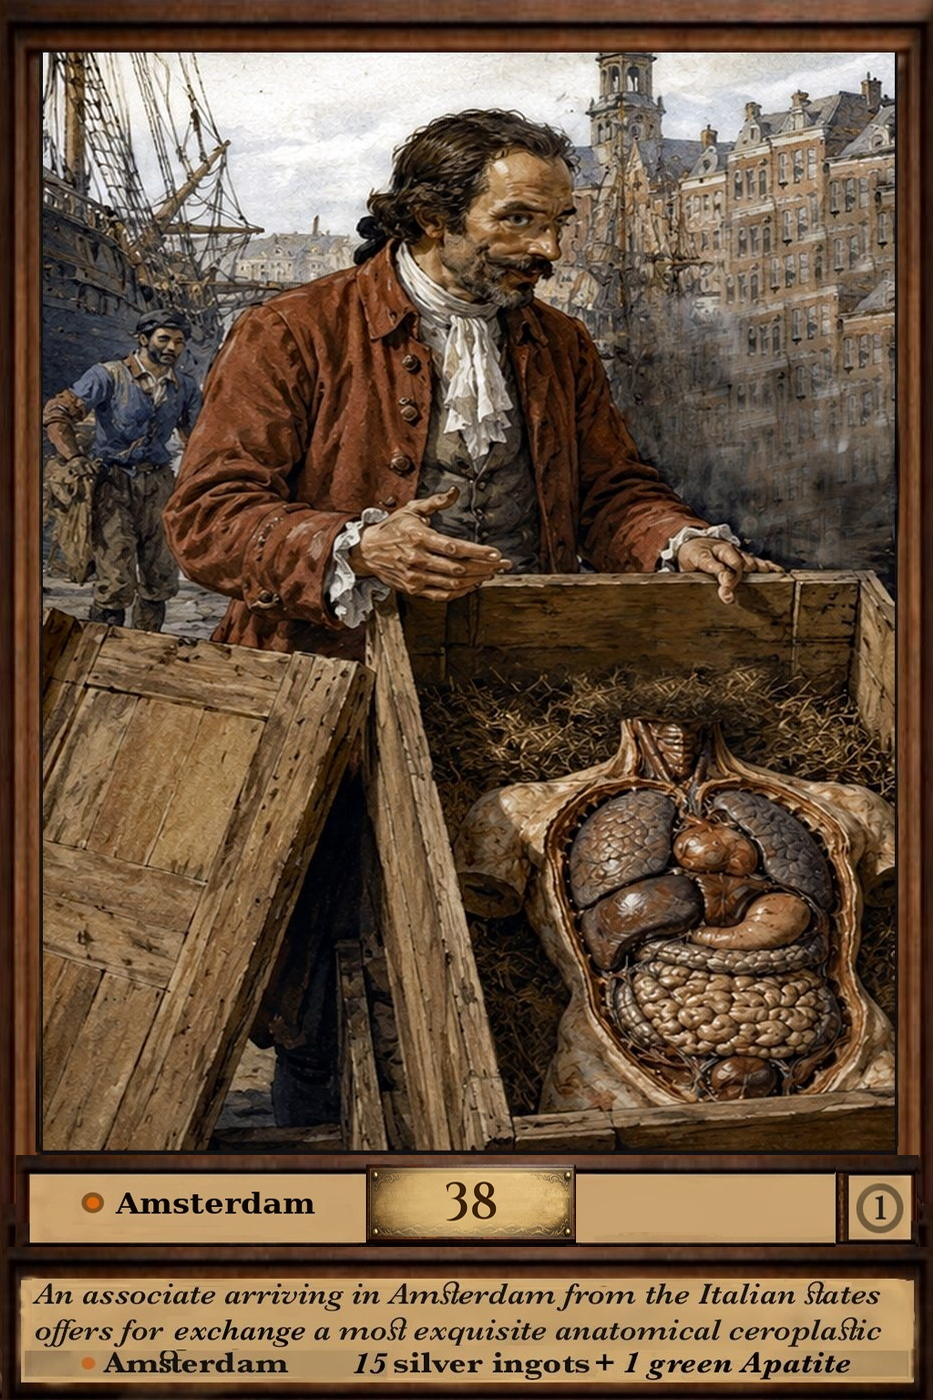
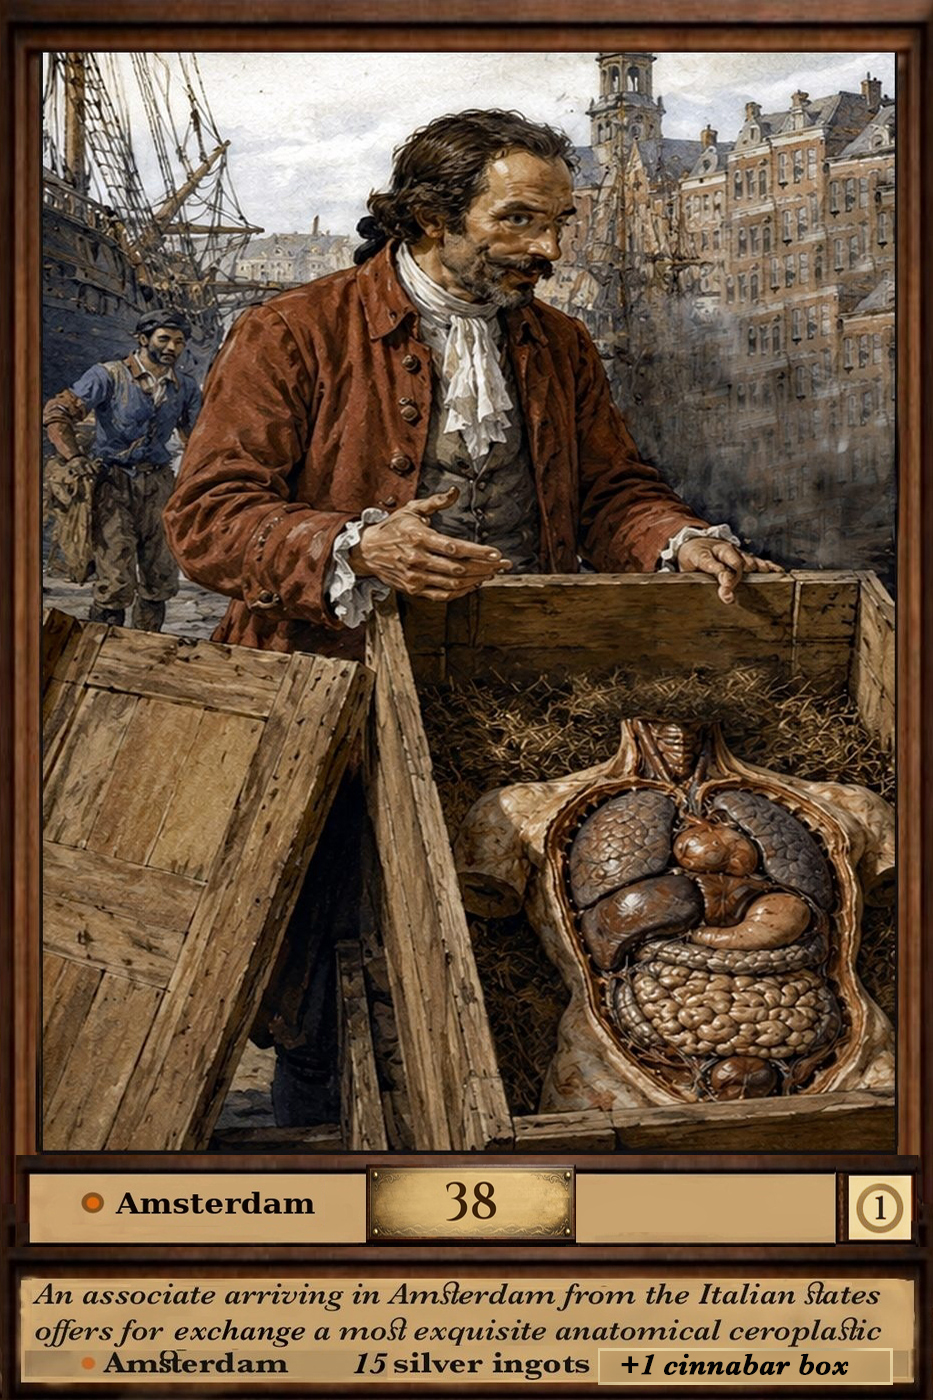
ooooh

Changed region(s): [[0.6217, 0.9521, 0.9636, 1.0], [0.9014, 0.8293, 0.9946, 0.8907]]

diff --git a/index.html b/index.html
@@ -347,23 +347,42 @@ input, textarea { -webkit-user-select: text; user-select: text; }  /* keep any t
 .rep-wrap {
   position: relative;
   width: 100%;
-  height: 14px;
+  height: 22px;
   display: flex;
   align-items: center;
 }
-.rep-gradient {
+.rep-segments {
   width: 100%;
-  height: 7px;
+  height: 16px;
   border-radius: 3px;
-  background: linear-gradient(90deg, #8b1a1a 0%, #c8923a 50%, #2a7a2a 100%);
-  border: 1px solid #4a2e0e;
+  display: flex;
+  overflow: hidden;
+  border: 1.5px solid #2a1a08;
+  box-shadow: inset 0 1px 3px rgba(0,0,0,0.5);
+}
+.rep-seg {
+  flex: 1;
+  display: flex;
+  align-items: center;
+  justify-content: center;
+  border-right: 1px solid rgba(0,0,0,0.35);
+}
+.rep-seg:last-child { border-right: none; }
+.rep-seg.red   { background: linear-gradient(180deg, #a8342a, #7a2018); }
+.rep-seg.amber { background: linear-gradient(180deg, #c88a2a, #9a6415); }
+.rep-seg.green { background: linear-gradient(180deg, #3a9a3a, #226b22); }
+.rep-seg-num {
+  font-family: 'Cinzel', serif;
+  font-size: 0.5rem;
+  font-weight: 700;
+  color: rgba(255,255,255,0.6);
 }
 .rep-marker {
   position: absolute;
   top: 50%;
   transform: translate(-50%, -50%);
-  width: 12px;
-  height: 14px;
+  width: 16px;
+  height: 20px;
   transition: left 0.5s cubic-bezier(0.4,0,0.2,1);
   pointer-events: none;
 }
@@ -2660,7 +2679,18 @@ body.solo-mode #ast-bay-p1 { display: none !important; }  /* P1's bay is the RIG
   <div class="rep-area">
     <div class="rep-label">REPUTATION</div>
     <div class="rep-wrap">
-      <div class="rep-gradient"></div>
+      <div class="rep-segments">
+        <div class="rep-seg red"><span class="rep-seg-num">1</span></div>
+        <div class="rep-seg red"><span class="rep-seg-num">2</span></div>
+        <div class="rep-seg red"><span class="rep-seg-num">3</span></div>
+        <div class="rep-seg amber"><span class="rep-seg-num">4</span></div>
+        <div class="rep-seg amber"><span class="rep-seg-num">5</span></div>
+        <div class="rep-seg amber"><span class="rep-seg-num">6</span></div>
+        <div class="rep-seg green"><span class="rep-seg-num">7</span></div>
+        <div class="rep-seg green"><span class="rep-seg-num">8</span></div>
+        <div class="rep-seg green"><span class="rep-seg-num">9</span></div>
+        <div class="rep-seg green"><span class="rep-seg-num">10</span></div>
+      </div>
       <div class="rep-marker" id="rep-p1" style="left:50%">
         <img src="images/tracker.png" alt="▾">
       </div>
@@ -2698,7 +2728,18 @@ body.solo-mode #ast-bay-p1 { display: none !important; }  /* P1's bay is the RIG
   <div class="rep-area">
     <div class="rep-label">REPUTATION</div>
     <div class="rep-wrap">
-      <div class="rep-gradient"></div>
+      <div class="rep-segments">
+        <div class="rep-seg red"><span class="rep-seg-num">1</span></div>
+        <div class="rep-seg red"><span class="rep-seg-num">2</span></div>
+        <div class="rep-seg red"><span class="rep-seg-num">3</span></div>
+        <div class="rep-seg amber"><span class="rep-seg-num">4</span></div>
+        <div class="rep-seg amber"><span class="rep-seg-num">5</span></div>
+        <div class="rep-seg amber"><span class="rep-seg-num">6</span></div>
+        <div class="rep-seg green"><span class="rep-seg-num">7</span></div>
+        <div class="rep-seg green"><span class="rep-seg-num">8</span></div>
+        <div class="rep-seg green"><span class="rep-seg-num">9</span></div>
+        <div class="rep-seg green"><span class="rep-seg-num">10</span></div>
+      </div>
       <div class="rep-marker" id="rep-p2" style="left:50%">
         <img src="images/tracker.png" alt="▾">
       </div>
@@ -3881,6 +3922,57 @@ const ROUTES = {
     nodes:[
       {x:1213,y:493, name:'Ancol Cove', isPort:true, portImg:'images/batavianuatilusdest.jpeg'},       // 0
       {x:1222, y:502, name:'Batavia',    isPort:true, portImg:'images/portbat.jpeg'},         // 1
+    ],
+  },
+  // ── Country Captain shortcut: Bombay ⇄ Ceylon direct — requires the shortcut card + reputation 7+ ──
+  bomceydirect: {
+    id:'bomceydirect', shipImg:'images/foshanship.png', shipName:"Country Captain's boat to Ceylon",
+    lineColor:'rgba(120,170,200,0.55)', circuit:['bomceydirect'],
+    nodes:[
+      {x:1093, y:419, name:'Bombay', isPort:true, portImg:'images/portbom.jpeg'},  // 0
+      {x:1128, y:460, name:'Ceylon', isPort:true, portImg:'images/portcey.jpeg'},  // 1
+    ],
+  },
+  bomceydirect_return: {
+    id:'bomceydirect_return', shipImg:'images/foshanship.png', shipName:"Country Captain's boat to Bombay",
+    lineColor:'rgba(120,170,200,0.55)', circuit:['bomceydirect_return'],
+    nodes:[
+      {x:1128, y:460, name:'Ceylon', isPort:true, portImg:'images/portcey.jpeg'},  // 0
+      {x:1093, y:419, name:'Bombay', isPort:true, portImg:'images/portbom.jpeg'},  // 1
+    ],
+  },
+  // ── Lascar Serang shortcut: Madras ⇄ Bombay direct — requires the shortcut card + reputation 7+ ──
+  madbomdirect: {
+    id:'madbomdirect', shipImg:'images/foshanship.png', shipName:"Lascar Serang's boat to Bombay",
+    lineColor:'rgba(200,150,120,0.55)', circuit:['madbomdirect'],
+    nodes:[
+      {x:1115, y:445, name:'Madras', isPort:true, portImg:'images/portmad.jpeg'},  // 0
+      {x:1093, y:419, name:'Bombay', isPort:true, portImg:'images/portbom.jpeg'},  // 1
+    ],
+  },
+  madbomdirect_return: {
+    id:'madbomdirect_return', shipImg:'images/foshanship.png', shipName:"Lascar Serang's boat to Madras",
+    lineColor:'rgba(200,150,120,0.55)', circuit:['madbomdirect_return'],
+    nodes:[
+      {x:1093, y:419, name:'Bombay', isPort:true, portImg:'images/portbom.jpeg'},  // 0
+      {x:1115, y:445, name:'Madras', isPort:true, portImg:'images/portmad.jpeg'},  // 1
+    ],
+  },
+  // ── Regional crew shortcut: Madras ⇄ Batavia direct — requires the shortcut card + reputation 7+ ──
+  madbatdirect: {
+    id:'madbatdirect', shipImg:'images/foshanship.png', shipName:'Regional crew — textile run to Batavia',
+    lineColor:'rgba(160,140,90,0.55)', circuit:['madbatdirect'],
+    nodes:[
+      {x:1115, y:445, name:'Madras',  isPort:true, portImg:'images/portmad.jpeg'},  // 0
+      {x:1222, y:502, name:'Batavia', isPort:true, portImg:'images/portbat.jpeg'},  // 1
+    ],
+  },
+  madbatdirect_return: {
+    id:'madbatdirect_return', shipImg:'images/foshanship.png', shipName:'Regional crew — textile run to Madras',
+    lineColor:'rgba(160,140,90,0.55)', circuit:['madbatdirect_return'],
+    nodes:[
+      {x:1222, y:502, name:'Batavia', isPort:true, portImg:'images/portbat.jpeg'},  // 0
+      {x:1115, y:445, name:'Madras',  isPort:true, portImg:'images/portmad.jpeg'},  // 1
     ],
   },
   // ── Lapidary Outskirts: canal barge 1-node NE of Amsterdam ──
@@ -5527,9 +5619,22 @@ function boardRouteFromNode(routeId, portName) {
 // Origin/destination ports (London, Amsterdam, Canton etc.) are unchanged.
 const PORT_EXTRA_ROUTES = {
   'Cape of Good Hope': ['bei','bei_return','voc','voc_return'],
-  'Bombay':            ['bei_return'],
-  'Madras':            ['bei_return'],
-  'Ceylon':            ['voc_return'],
+  'Bombay':            ['bei_return', 'bomceydirect', 'madbomdirect_return'],
+  'Madras':            ['bei_return', 'madbomdirect', 'madbatdirect'],
+  'Ceylon':            ['voc_return', 'bomceydirect_return'],
+  'Batavia':           ['madbatdirect_return'],
+};
+
+// Extra requirements for a route beyond simply being at the right port — used by
+// the three travel-shortcut cards, which need both the standing contact (a specific
+// held card) and reputation 7+ before the option appears at all.
+const ROUTE_REQUIREMENTS = {
+  bomceydirect:         { cardFragment: 'shrtcutbombayceylon', minRep: 7 },
+  bomceydirect_return:  { cardFragment: 'shrtcutbombayceylon', minRep: 7 },
+  madbomdirect:         { cardFragment: 'shrtcutmadrasbombay', minRep: 7 },
+  madbomdirect_return:  { cardFragment: 'shrtcutmadrasbombay', minRep: 7 },
+  madbatdirect:         { cardFragment: 'shrtcutmadrasbatavia', minRep: 7 },
+  madbatdirect_return:  { cardFragment: 'shrtcutmadrasbatavia', minRep: 7 },
 };
 
 function renderPortDepartures(portName) {
@@ -5549,6 +5654,14 @@ function renderPortDepartures(portName) {
 
     const nodeIdx = route.nodes.findIndex(n => n.name === portName);
     if (nodeIdx < 0 || nodeIdx >= route.nodes.length - 1) return; // not on route or at end
+
+    // Gated shortcuts (travel-shortcut cards): only appear if the player holds
+    // the standing contact's card AND meets the reputation threshold.
+    const req = ROUTE_REQUIREMENTS[routeId];
+    if (req) {
+      const hasCard = (p.heldCards||[]).some(hc => hc.img && hc.img.includes(req.cardFragment));
+      if (!hasCard || (p.reputation||0) < req.minRep) return;
+    }
 
     // Skip if player is already on this exact ship
     const routeShip = ships.find(sh => sh.routeId === routeId);
@@ -9711,10 +9824,11 @@ function giveHeldCard(playerIdx, card) {
 
 function isRetainedCard(hc) {
   // These cards live in the portrait strip below the HUD, not in the hand fan
-  return hc.heldType === 'invite'   || hc.type === 'invite'   ||
-         hc.heldType === 'cat'      || hc.type === 'cat'      ||
-         hc.heldType === 'freepass' || hc.type === 'freepass' ||
-         hc.heldType === 'pox'      || hc.type === 'pox';
+  return hc.heldType === 'invite'     || hc.type === 'invite'     ||
+         hc.heldType === 'cat'        || hc.type === 'cat'        ||
+         hc.heldType === 'freepass'   || hc.type === 'freepass'   ||
+         hc.heldType === 'pox'        || hc.type === 'pox'        ||
+         hc.heldType === 'specialist' || hc.heldType === 'shortcut';
 }
 
 function renderRetainedCards(playerIdx) {
@@ -10161,14 +10275,32 @@ const LAND_CARD_TEMPLATES = [
   { img:'images/fire.jpeg',          effect:(p,i)=>{ changeRep(i,1);  log(`${p.name}: Fire nearby! You pitch in — +1 reputation, no further actions.`); p.skipActions=true; } },
 
   // ── Specialist buyers — Haarlem conchologist (×3) and Leiden mineralogist (×3) ──
+  // heldType:'specialist' moves these to the retained-card strip under the HUD,
+  // out of the main hand fan — they're standing contacts, not one-off draws.
   ...Array(3).fill(null).map(()=> ({ img:'images/op-conchologist.jpeg',
     effect:(p,i)=>{ p.heldCards=p.heldCards||[];
       if ((p.heldCards).some(hc=>hc.img&&hc.img.includes('conchologist'))) { log(`${p.name}: Conchologist card already held — returned to deck.`); return; }
-      p.heldCards.push({id:'conch_'+Date.now(),img:'images/op-conchologist.jpeg',faceUp:false,type:'opportunity',label:'Conchologist — Haarlem',dest:'Haarlem',redeemed:false}); renderHeldCards(i); log(`${p.name} draws: Conchologist in Haarlem — triple price for shells. Kept face down.`); } })),
+      p.heldCards.push({id:'conch_'+Date.now(),img:'images/op-conchologist.jpeg',faceUp:false,type:'opportunity',heldType:'specialist',label:'Conchologist — Haarlem',dest:'Haarlem',redeemed:false}); renderHeldCards(i); log(`${p.name} draws: Conchologist in Haarlem — triple price for shells. Kept face down.`); } })),
   ...Array(3).fill(null).map(()=> ({ img:'images/op-minerologist.jpeg',
     effect:(p,i)=>{ p.heldCards=p.heldCards||[];
       if ((p.heldCards).some(hc=>hc.img&&hc.img.includes('minerologist'))) { log(`${p.name}: Mineralogist card already held — returned to deck.`); return; }
-      p.heldCards.push({id:'miner_'+Date.now(),img:'images/op-minerologist.jpeg',faceUp:false,type:'opportunity',label:'Mineralogist — Leiden',dest:'Leiden',redeemed:false}); renderHeldCards(i); log(`${p.name} draws: Mineralogist in Leiden — double price for specimens. Kept face down.`); } })),
+      p.heldCards.push({id:'miner_'+Date.now(),img:'images/op-minerologist.jpeg',faceUp:false,type:'opportunity',heldType:'specialist',label:'Mineralogist — Leiden',dest:'Leiden',redeemed:false}); renderHeldCards(i); log(`${p.name} draws: Mineralogist in Leiden — double price for specimens. Kept face down.`); } })),
+  // ── Travel shortcuts — Country Captain (Bombay/Ceylon ×3) and Lascar Serang (Madras/Bombay ×3) ──
+  // Permanent once drawn, kept for good, used infinitely — same standing-contact
+  // pattern as the specialists above, but gate a direct route instead of a sale.
+  // Both require reputation 7+ (checked at boarding time in renderPortDepartures).
+  ...Array(3).fill(null).map(()=> ({ img:'images/shrtcutbombayceylon.jpg',
+    effect:(p,i)=>{ p.heldCards=p.heldCards||[];
+      if ((p.heldCards).some(hc=>hc.img&&hc.img.includes('shrtcutbombayceylon'))) { log(`${p.name}: Country Captain's acquaintance already held — returned to deck.`); return; }
+      p.heldCards.push({id:'ccshortcut_'+Date.now(),img:'images/shrtcutbombayceylon.jpg',faceUp:false,type:'opportunity',heldType:'shortcut',label:'Country Captain — Bombay ⇄ Ceylon',dest:'Bombay',redeemed:false}); renderHeldCards(i); log(`${p.name} draws: an independent Country Captain — direct passage between Bombay and Ceylon, reputation 7+ required. Kept face down.`); } })),
+  ...Array(3).fill(null).map(()=> ({ img:'images/shrtcutmadrasbombay.jpg',
+    effect:(p,i)=>{ p.heldCards=p.heldCards||[];
+      if ((p.heldCards).some(hc=>hc.img&&hc.img.includes('shrtcutmadrasbombay'))) { log(`${p.name}: Lascar Serang's name already held — returned to deck.`); return; }
+      p.heldCards.push({id:'lsshortcut_'+Date.now(),img:'images/shrtcutmadrasbombay.jpg',faceUp:false,type:'opportunity',heldType:'shortcut',label:'Lascar Serang — Madras ⇄ Bombay',dest:'Madras',redeemed:false}); renderHeldCards(i); log(`${p.name} draws: the name of a Lascar Serang — direct passage between Madras and Bombay, reputation 7+ required. Kept face down.`); } })),
+  ...Array(3).fill(null).map(()=> ({ img:'images/shrtcutmadrasbatavia.jpg',
+    effect:(p,i)=>{ p.heldCards=p.heldCards||[];
+      if ((p.heldCards).some(hc=>hc.img&&hc.img.includes('shrtcutmadrasbatavia'))) { log(`${p.name}: Regional crew contact already held — returned to deck.`); return; }
+      p.heldCards.push({id:'mbshortcut_'+Date.now(),img:'images/shrtcutmadrasbatavia.jpg',faceUp:false,type:'opportunity',heldType:'shortcut',label:'Regional Crew — Madras ⇄ Batavia',dest:'Madras',redeemed:false}); renderHeldCards(i); log(`${p.name} draws: a veteran regional crew running textiles — direct passage between Madras and Batavia, reputation 7+ required. Kept face down.`); } })),
   // ── Atlantic Waterspout — kept: S, SW, SE, W ──
   { img:'images/wss.jpeg',  effect:(p,i)=>{ log(`${p.name}: Reports of a waterspout — it moves S.`);  advanceStormToken('atlantic','S');  } },
   { img:'images/wss.jpeg',  effect:(p,i)=>{ log(`${p.name}: Reports of a waterspout — it moves S.`);  advanceStormToken('atlantic','S');  } },
@@ -10594,8 +10726,8 @@ const PORT_ITEMS = {
     { img:'images/tulipvase.png', label:'Delft Tulip Vase',   price:2, currency:'ingots' },
     { img:'images/telescope.png', label:'Telescope',          price:5, currency:'ingots' },
     { img:'images/anatomicalmodeltorso.png', label:'Anatomical Ceroplastic Torso', price:15, currency:'ingots',
-      reqCard:'images/connection1.jpg', reqItem:'apatite',
-      reqItemLabel:'Asparagus Stone (Apatite)', reqItemNote:'A green apatite specimen is required' },
+      reqCard:'images/connection1.jpg', reqItem:'cinnabar',
+      reqItemLabel:'Cinnabar Box', reqItemNote:'A cinnabar lacquer box is required' },
   ],
   'Cape of Good Hope': [
     { img:'images/protearaw.png',  label:'King Protea',         price:5, currency:'coins' },
@@ -12720,13 +12852,13 @@ const ITEM_SCORES = {
     itemType:'polyhedra', shellFamily:null,    mineralType:null,   region:'europe'   },
   'amethyst':             { w:8,  c:7,  s:6,  a:8,  total:29, label:'Amethyst Geode',
     itemType:'mineral',   shellFamily:null,    mineralType:'quartz',  region:'americas' },
-  'moonstone':            { w:7,  c:8,  s:7,  a:7,  total:29, label:'Blue Moonstone',
+  'moonstone':            { w:3,  c:4,  s:3,  a:4,  total:14, label:'Blue Moonstone',
     itemType:'mineral',   shellFamily:null,    mineralType:'feldspar',region:'asia'   },
   'op-moonstone':         { w:7,  c:8,  s:7,  a:7,  total:29, label:'Blue Moonstone',
     itemType:'mineral',   shellFamily:null,    mineralType:'feldspar',region:'asia'   },
   'wenteltrap':           { w:6,  c:7,  s:8,  a:8,  total:29, label:'Precious Wenteltrap',
     itemType:'shell',     shellFamily:'wentletrap', mineralType:null, region:'asia'  },
-  'apatite':              { w:5,  c:9,  s:7,  a:7,  total:28, label:'Asparagus Stone',
+  'apatite':              { w:2,  c:3,  s:2,  a:3,  total:10, label:'Asparagus Stone',
     itemType:'mineral',   shellFamily:null,    mineralType:'phosphate',region:'europe'},
   'shell-nautiloushalf':  { w:7,  c:9,  s:5,  a:7,  total:28, label:'Nautilus — Bisected',
     itemType:'shell',     shellFamily:'nautilus', mineralType:null, region:'europe'  },
